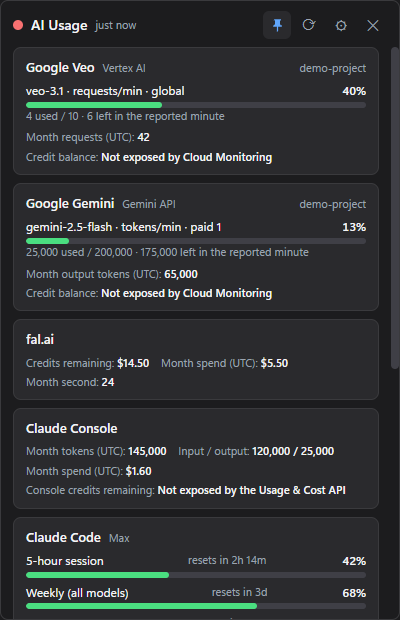
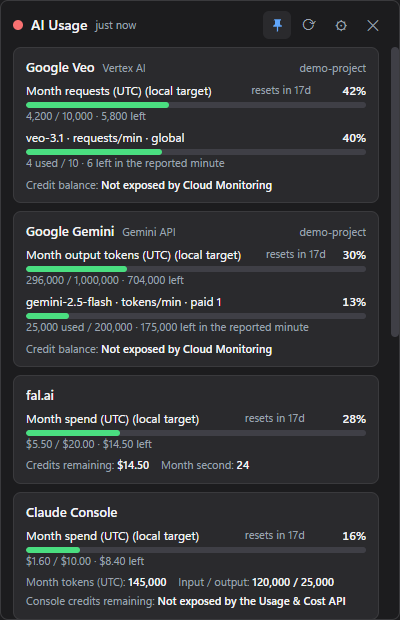
feat(tray): display usage progress bars with local monthly targets

diff --git a/src/demo.ts b/src/demo.ts
@@ -3,7 +3,8 @@
 // working on the panel without being logged in to anything.
 
 import type { ProviderResult } from "./types.ts";
-import { win } from "./providers/_util.ts";
+import { monthlyProgress } from "./providers/_progress.ts";
+import { usd, win } from "./providers/_util.ts";
 
 const HOUR = 3_600_000;
 const DAY = 24 * HOUR;
@@ -23,12 +24,10 @@ export function demoResults(): ProviderResult[] {
       plan: "Vertex AI",
       account: "demo-project",
       windows: [
+        monthlyProgress("Month requests (UTC)", 4200, 10000),
         win("veo-3.1 · requests/min · global", 40, null, { detail: "4 used / 10 · 6 left in the reported minute" }),
       ],
-      extras: [
-        { label: "Month requests (UTC)", value: "42" },
-        { label: "Credit balance", value: "Not exposed by Cloud Monitoring" },
-      ],
+      extras: [{ label: "Credit balance", value: "Not exposed by Cloud Monitoring" }],
       fetchedAt,
     },
     {
@@ -39,14 +38,12 @@ export function demoResults(): ProviderResult[] {
       plan: "Gemini API",
       account: "demo-project",
       windows: [
+        monthlyProgress("Month output tokens (UTC)", 296000, 1000000),
         win("gemini-2.5-flash · tokens/min · paid 1", 12.5, null, {
           detail: "25,000 used / 200,000 · 175,000 left in the reported minute",
         }),
       ],
-      extras: [
-        { label: "Month output tokens (UTC)", value: "65,000" },
-        { label: "Credit balance", value: "Not exposed by Cloud Monitoring" },
-      ],
+      extras: [{ label: "Credit balance", value: "Not exposed by Cloud Monitoring" }],
       fetchedAt,
     },
     {
@@ -54,10 +51,9 @@ export function demoResults(): ProviderResult[] {
       name: "fal.ai",
       ms: 210,
       status: "ok",
-      windows: [],
+      windows: [monthlyProgress("Month spend (UTC)", 5.5, 20, usd)],
       extras: [
         { label: "Credits remaining", value: "$14.50" },
-        { label: "Month spend (UTC)", value: "$5.50" },
         { label: "Month second", value: "24" },
       ],
       fetchedAt,
@@ -67,11 +63,10 @@ export function demoResults(): ProviderResult[] {
       name: "Claude Console",
       ms: 300,
       status: "ok",
-      windows: [],
+      windows: [monthlyProgress("Month spend (UTC)", 1.6, 10, usd)],
       extras: [
         { label: "Month tokens (UTC)", value: "145,000" },
         { label: "Input / output", value: "120,000 / 25,000" },
-        { label: "Month spend (UTC)", value: "$1.60" },
         { label: "Console credits remaining", value: "Not exposed by the Usage & Cost API" },
       ],
       fetchedAt,

diff --git a/src/renderer/renderer.js b/src/renderer/renderer.js
@@ -102,13 +102,11 @@ function renderUsage() {
 
     if (r.status !== "ok") {
       card.append(el("div", { class: "status", text: `${STATUS_TEXT[r.status] ?? r.status}: ${r.message ?? ""}` }));
-    } else if (r.message) {
-      card.append(el("div", { class: "status", text: r.message }));
     }
 
     for (const w of r.windows) {
       if (RANK[w.severity] > RANK[worst]) worst = w.severity;
-      const pctText = w.percent == null ? "?" : `${Math.round(w.percent)}%`;
+      const pctText = w.percent == null ? "—" : `${Math.round(w.percent)}%`;
       const row = el(
         "div",
         { class: "win" },
@@ -119,7 +117,19 @@ function renderUsage() {
           el("span", { class: "reset", text: relReset(w.resetsAt) }),
           el("span", { class: "pct", text: pctText }),
         ),
-        el("div", { class: `bar ${w.severity}` }, el("i", { style: { width: `${w.percent ?? 0}%` } })),
+        el(
+          "div",
+          {
+            class: `bar ${w.severity}`,
+            role: "progressbar",
+            "aria-label": w.label,
+            "aria-valuemin": "0",
+            "aria-valuemax": "100",
+            ...(w.percent == null ? {} : { "aria-valuenow": String(w.percent) }),
+            "aria-valuetext": w.percent == null ? (w.detail ?? "Usage percentage unavailable") : pctText,
+          },
+          el("i", { style: { width: `${w.percent ?? 0}%` } }),
+        ),
       );
       if (w.detail) row.append(el("div", { class: "detail", text: w.detail }));
       card.append(row);
@@ -130,6 +140,7 @@ function renderUsage() {
       for (const x of r.extras) ex.append(el("span", {}, `${x.label}: `, el("b", { text: x.value })));
       card.append(ex);
     }
+    if (r.status === "ok" && r.message) card.append(el("div", { class: "status note", text: r.message }));
     viewUsage.append(card);
   }
   $("#headDot").className = `dot ${worst}`;
@@ -186,7 +197,11 @@ async function renderSettings() {
       "aria-label": `Enable ${p.name}`,
       ...(pc.enabled !== false ? { checked: "" } : {}),
     });
-    const sec = el("section", {}, el("label", { class: "secHead" }, el("h2", { text: p.name }), toggle));
+    const sec = el(
+      "section",
+      { "data-provider": p.id },
+      el("label", { class: "secHead" }, el("h2", { text: p.name }), toggle),
+    );
     if (p.help) sec.append(el("div", { class: "help", text: p.help }));
     for (const f of p.fields) {
       const input = el("input", {

diff --git a/src/main.ts b/src/main.ts
@@ -213,8 +213,12 @@ async function debugScreenshot(file: string): Promise<void> {
   }
   const screenshotProvider = process.env.AI_USAGE_SCREENSHOT_PROVIDER;
   if (screenshotProvider && providers.some((p) => p.id === screenshotProvider)) {
+    const view = process.env.AI_USAGE_SCREENSHOT_SETTINGS ? "#providerSettings" : "#viewUsage";
     await popup.webContents.executeJavaScript(
-      `document.querySelector('[data-provider="${screenshotProvider}"]')?.scrollIntoView({block:"start"})`,
+      `new Promise(resolve => {
+        document.querySelector('${view} [data-provider="${screenshotProvider}"]')?.scrollIntoView({block:"start", behavior:"instant"});
+        requestAnimationFrame(() => requestAnimationFrame(() => resolve(true)));
+      })`,
     );
   }
   const img = await popup.webContents.capturePage();

diff --git a/src/renderer/style.css b/src/renderer/style.css
@@ -180,6 +180,10 @@ main::-webkit-scrollbar-thumb {
   color: var(--muted);
   font-size: 12px;
 }
+.card .status.note {
+  margin-top: 6px;
+  font-size: 11px;
+}
 .card.err .status {
   color: var(--critical);
 }
@@ -242,6 +246,15 @@ main::-webkit-scrollbar-thumb {
 .bar.unknown > i {
   background: var(--unknown);
   width: 0;
+}
+.bar.unknown {
+  background: repeating-linear-gradient(
+    135deg,
+    var(--track),
+    var(--track) 4px,
+    var(--card-border) 4px,
+    var(--card-border) 8px
+  );
 }
 .win .detail {
   color: var(--muted);

diff --git a/README.md b/README.md
@@ -45,6 +45,8 @@ fal.ai's [billing endpoint](https://fal.ai/docs/platform-apis/v1/account/billing
 
 Probe these cards with `pnpm probe google-veo google-gemini fal anthropic-api`. Claude Console keeps the existing `anthropic-api` config ID so saved settings are retained.
 
+These cards use the same progress bars as OpenRouter. Set a **Monthly request/token target** for Google or a **Monthly spend target (USD)** for fal.ai and Claude Console. Bars labelled **local target** compare reported month-to-date usage with that target and reset at the start of each UTC month; they do not change provider quotas, account credits or billing limits. Actual remaining credits stay separate. Missing usage or a missing target produces a grey striped bar with **—**, never a fabricated 0% or 100%.
+
 ## Install
 
 ### Portable exe
